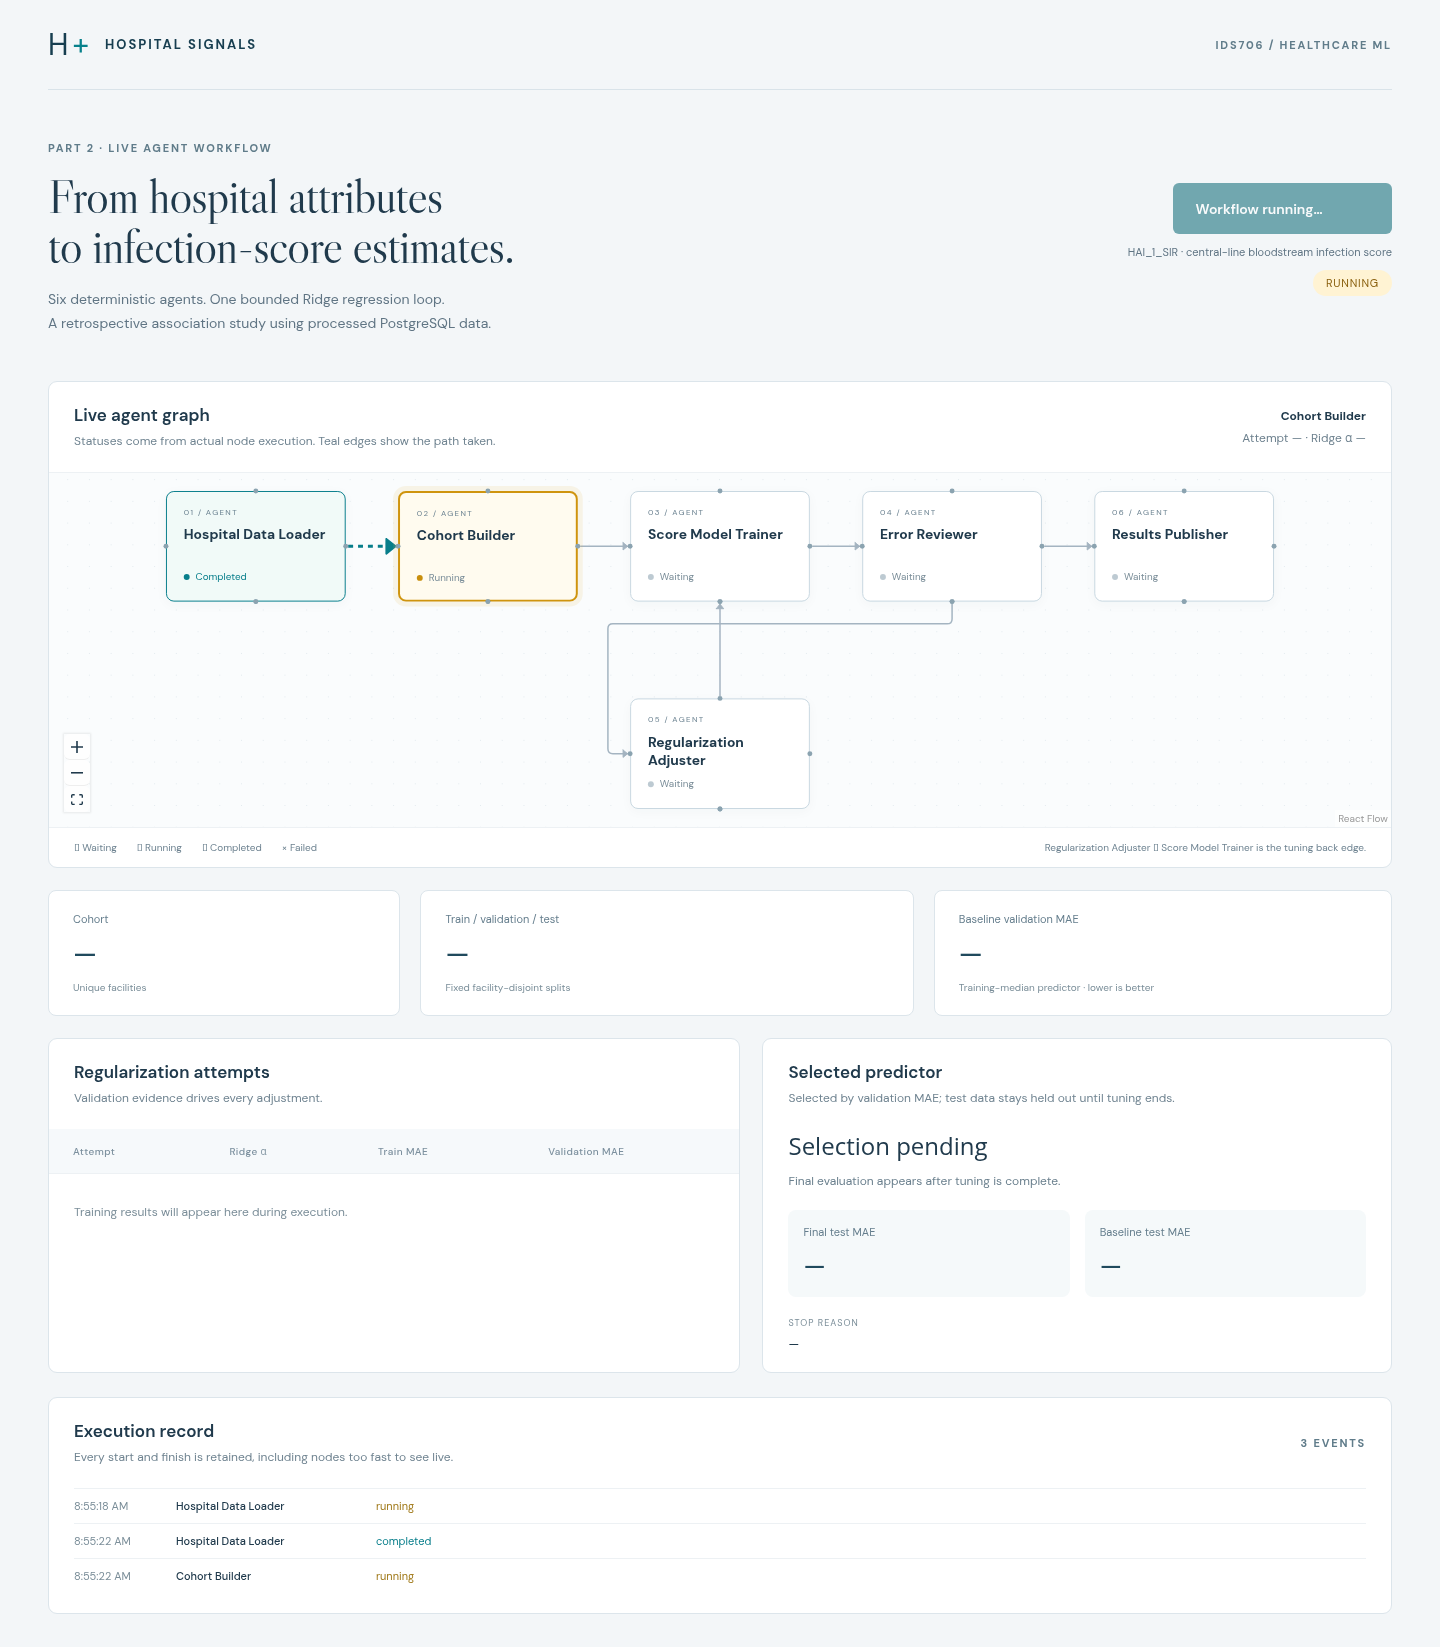
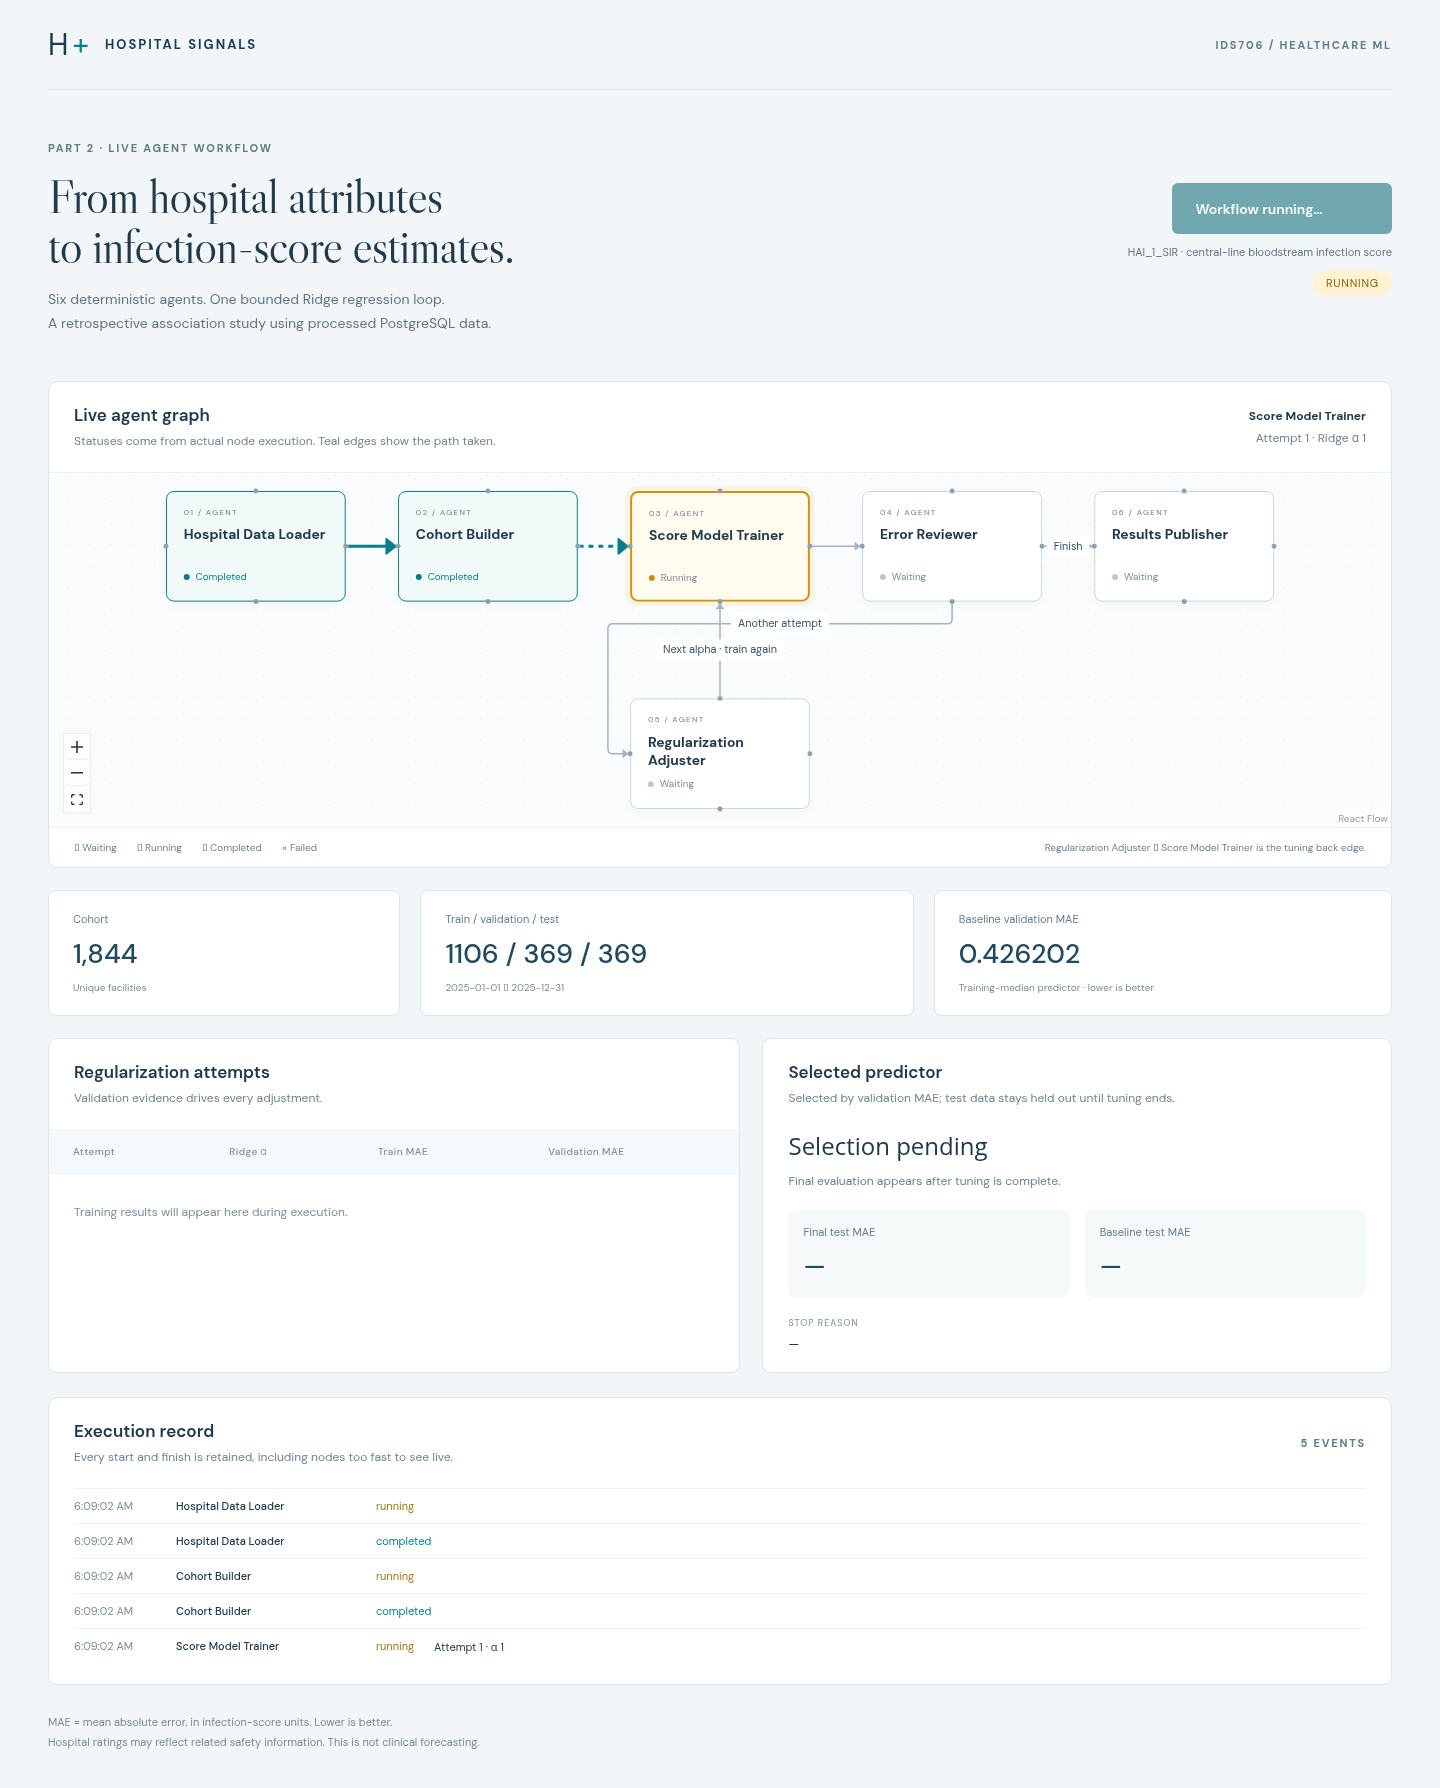
Update README.md

diff --git a/audit/requirements.py b/audit/requirements.py
@@ -1,6 +1,5 @@
 """Collect verified assignment evidence after the runtime and browser audits."""
 import csv
-import hashlib
 import json
 import subprocess
 import urllib.request
@@ -83,8 +82,6 @@ print(json.dumps(result))'''
     assert not browser['console_errors']
     comparison = json.loads((OUT.parent / 'evaluation/comparison.json').read_text())
     assert comparison['suite_passed'] and comparison['controls_passed']
-    protected = json.loads((OUT / 'protected_before.json').read_text())
-    assert all(hashlib.sha256((ROOT / p).read_bytes()).hexdigest() == digest for p, digest in protected.items())
     runtime = json.loads((OUT / 'runtime.json').read_text())
     assert runtime['passed']
     with urllib.request.urlopen('http://127.0.0.1:8080/api/v2/monitor/health', timeout=10) as response:
@@ -109,16 +106,15 @@ print(json.dumps(result))'''
             'Read PostgreSQL back; produce reporting coverage and HAI_1_SIR averages by hospital rating.'],
         'authenticated_dag_api': dag_api},
         'part2': {'passed': True, 'live_browser_evidence': browser,
-            'custom_logic': 'Six healthcare nodes and numeric regularization policy; no ref/ or loop_runtime imports.',
+            'custom_logic': 'Six healthcare nodes with a project-specific numeric regularization policy.',
             'screenshots': ['output/ml/ui-validation/running.png', 'output/ml/ui-validation/completed.png', 'output/ml/ui-validation/mobile.png']},
         'part3': {'passed': True, 'case_count': comparison['case_count'], 'summary': comparison['summary'],
             'adaptive_recovery_observed': comparison['cases'][3]['systems']['adaptive_multi_agent']['observed_result']['path'],
             'separate_budgets': {'ridge_fits': 3, 'database_retries': 2},
             'baseline_provenance': comparison['definition']['systems']},
         'runtime_audit': 'output/audit/runtime.json', 'validated_images': images, 'airflow_health': airflow_health,
-        'postgresql_tcp_checks': database_tcp, 'protected_files_unchanged': True,
-        'reference_stack': 'ref/infra/docker-compose.yml is professor reference material, not an application deployment. It is excluded from service startup and no runtime claims are made for it.',
-        'remaining': ['README intentionally pending user-specified final structure.']}
+        'postgresql_tcp_checks': database_tcp,
+        'remaining': []}
     (OUT / 'assignment.json').write_text(json.dumps(report, indent=2))
     print('Parts 1–3 audit passed. Evidence: output/audit/assignment.json')
 

diff --git a/README.md b/README.md
@@ -45,11 +45,15 @@ The project is organized into three stages:
 ### Part 1 — Airflow Pipeline
 - This step builds an end-to-end data pipeline using Apache Airflow. Two related healthcare datasets are ingested and cleaned independently, then merged using Facility ID.
 - The merged data is stored in PostgreSQL and read back for analysis. Independent tasks run in parallel where appropriate, and the pipeline is executed on a scheduled DAG.
+- Cleaning normalizes missing values, converts numeric scores/ratings and dates, and validates facility and infection-record keys before merging.
+- The DAG runs daily at **00:00 UTC**. Hospital and infection ingestion/cleaning branches run independently before the merge.
+- Analysis reads PostgreSQL back and saves a CSV and visualization of average central-line infection score by hospital rating. Differences between rating groups describe an association, not a causal effect.
 
 ### Part 2 — Agent-Based ML Workflow
 - This part uses the cleaned data from Part 1 in an agent-based machine learning workflow.
 - Different agents handle data preparation, model training, evaluation, and model adjustment. The workflow can loop through multiple model attempts and uses mean absolute error (MAE) to select the best validated predictor.
 - A live graph interface shows the actual agent execution and loop transitions.
+- Ridge regression estimates `HAI_1_SIR` using hospital rating, type, and state. The median predictor beat Ridge on validation; selected validation MAE was **0.426202**, and test MAE was **0.448833**.
 
 ### Part 3 — Adaptive Multi-Agent Workflow
 - This part extends the workflow by introducing multiple specialist agents with different responsibilities.
@@ -57,24 +61,22 @@ The project is organized into three stages:
 - This adaptive workflow is later compared against a fixed Airflow workflow and the simpler agent-based workflow from Part 2.
 <br><br>
 
-### Evaluation Suite
-
-The evaluation suite measures both model performance and agent coordination. Each test case defines an input or fault condition, expected behavior, scoring criteria, and a pass/fail threshold.
-
-The tests cover normal execution, model selection, invalid inputs, failure recovery, test-set isolation, and execution limits. All nine evaluation cases passed for the adaptive workflow.
-
 ### Baseline Comparison
 
-The adaptive system is compared against two healthcare versions of the workflows demonstrated in class:
+Part 3 was compared against healthcare adaptations of the **two baseline workflow patterns demonstrated in class**:
 
-- **Fixed Airflow baseline:** follows predefined execution steps with no adaptive model selection.
-- **Simple agentic baseline:** uses the Part 2 LangGraph workflow with a bounded model-adjustment loop.
-- **Adaptive Part 3 workflow:** dynamically selects specialist agents and can recover from eligible transient failures.
+| Workflow | Classroom baseline it represents | Key behavior |
+|---|---|---|
+| **Fixed Airflow Baseline** | Fixed Airflow workflow | Executes predefined steps with one fixed Ridge model and no adaptive model selection. |
+| **Part 2 Agent Workflow** | Simple agentic workflow | Uses agents and a bounded model-adjustment loop, but has limited routing and no database-recovery agent. |
+| **Part 3 Adaptive Workflow** | Proposed adaptive system | Dynamically selects specialist agents based on intermediate results and can route recoverable failures through a Recovery Coordinator. |
 
-| System | Validation MAE | Test MAE | Recovery |
+All three healthcare workflows use the same prediction task, cohort, train/validation/test splits, predictors, and MAE metric so their results can be compared fairly.
+
+| Healthcare Workflow | Validation MAE | Test MAE | Failure Recovery |
 |---|---:|---:|---|
-| Fixed Airflow baseline | 0.432464 | 0.442157 | Yes |
-| Part 2 agent workflow | 0.426202 | 0.448833 | No |
-| Part 3 adaptive workflow | 0.426202 | 0.448833 | Yes |
+| Fixed Airflow Baseline | 0.432464 | **0.442157** | Standard task retry |
+| Part 2 Agent Workflow | **0.426202** | 0.448833 | No |
+| Part 3 Adaptive Workflow | **0.426202** | 0.448833 | Adaptive recovery agent |
 
-The fixed Airflow baseline achieved the lowest test MAE, while the adaptive workflow provided stronger routing and recovery capabilities.
+The fixed Airflow workflow achieved the lowest test MAE, while the Part 3 workflow provided the strongest coordination and recovery behavior. The adaptive workflow passed all nine evaluation cases, including routing, recovery, invalid-input handling, test-set isolation, and execution-budget checks.
